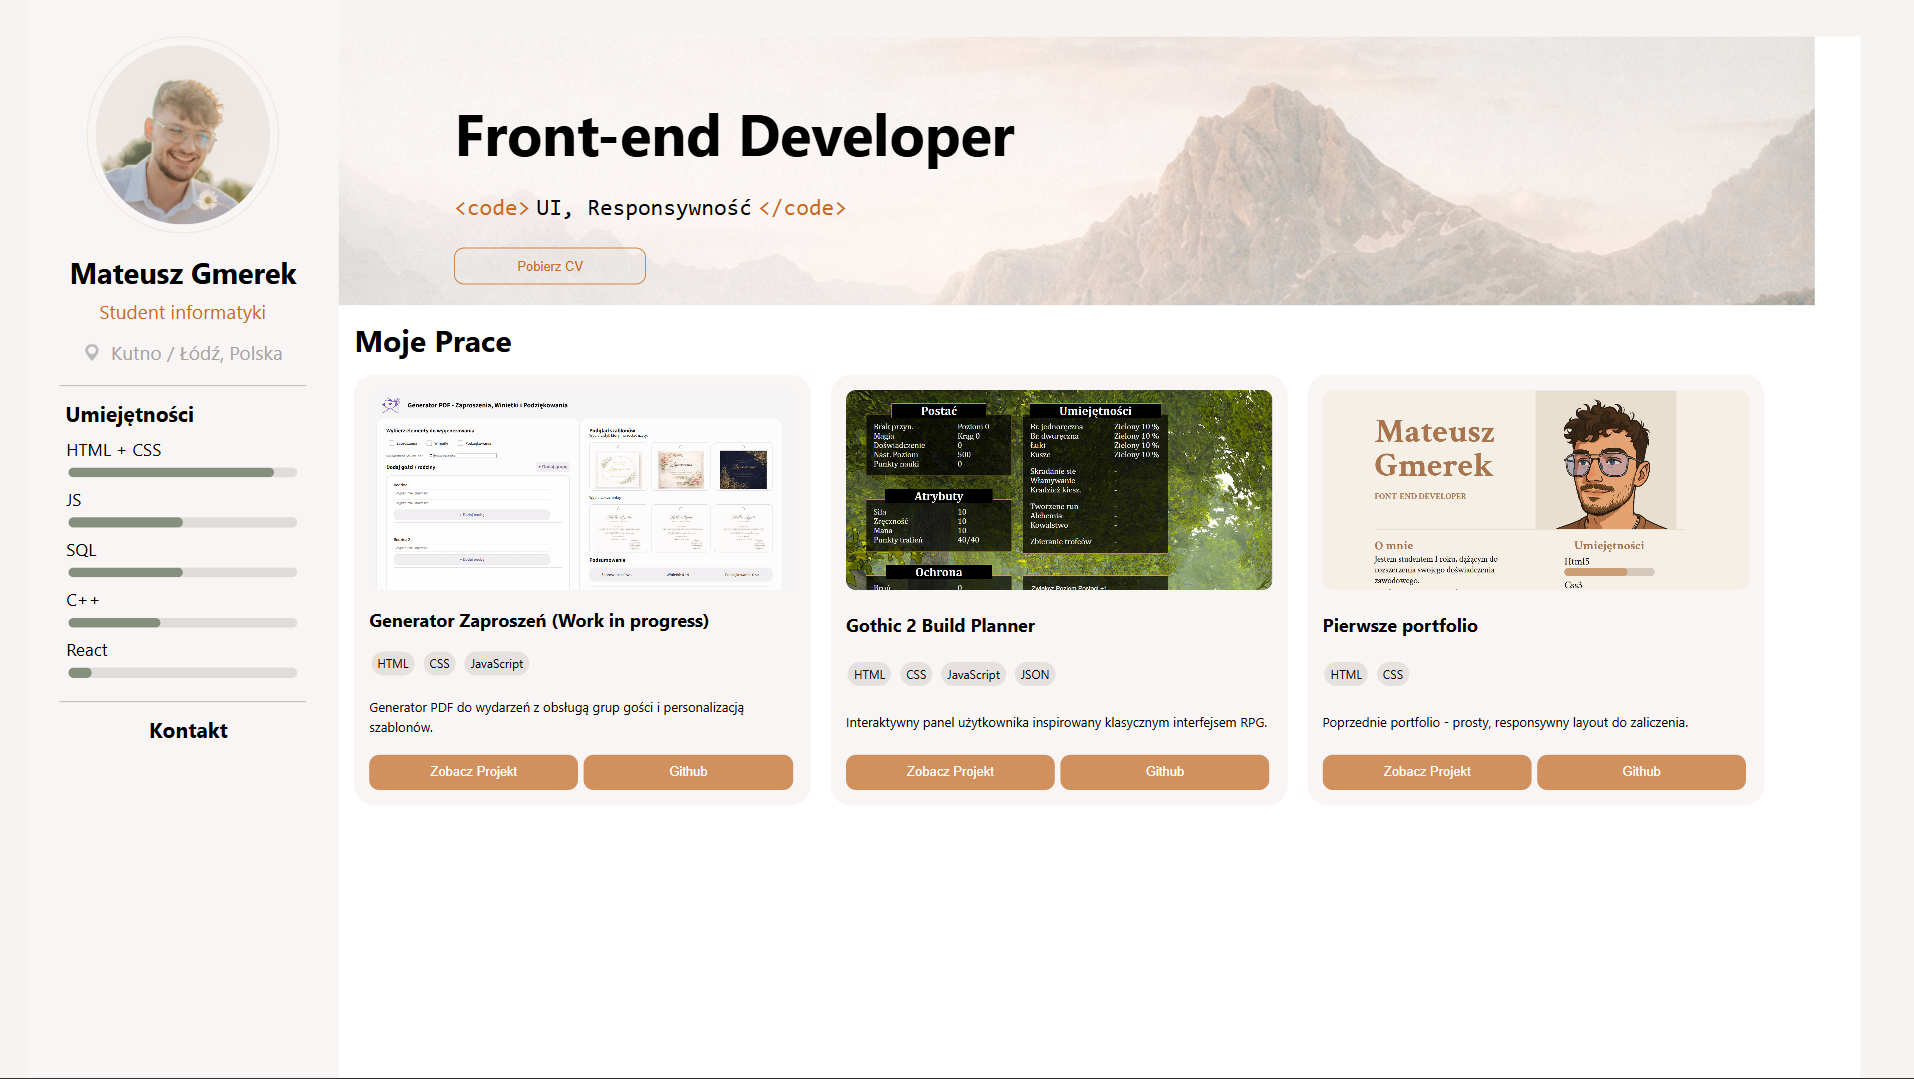
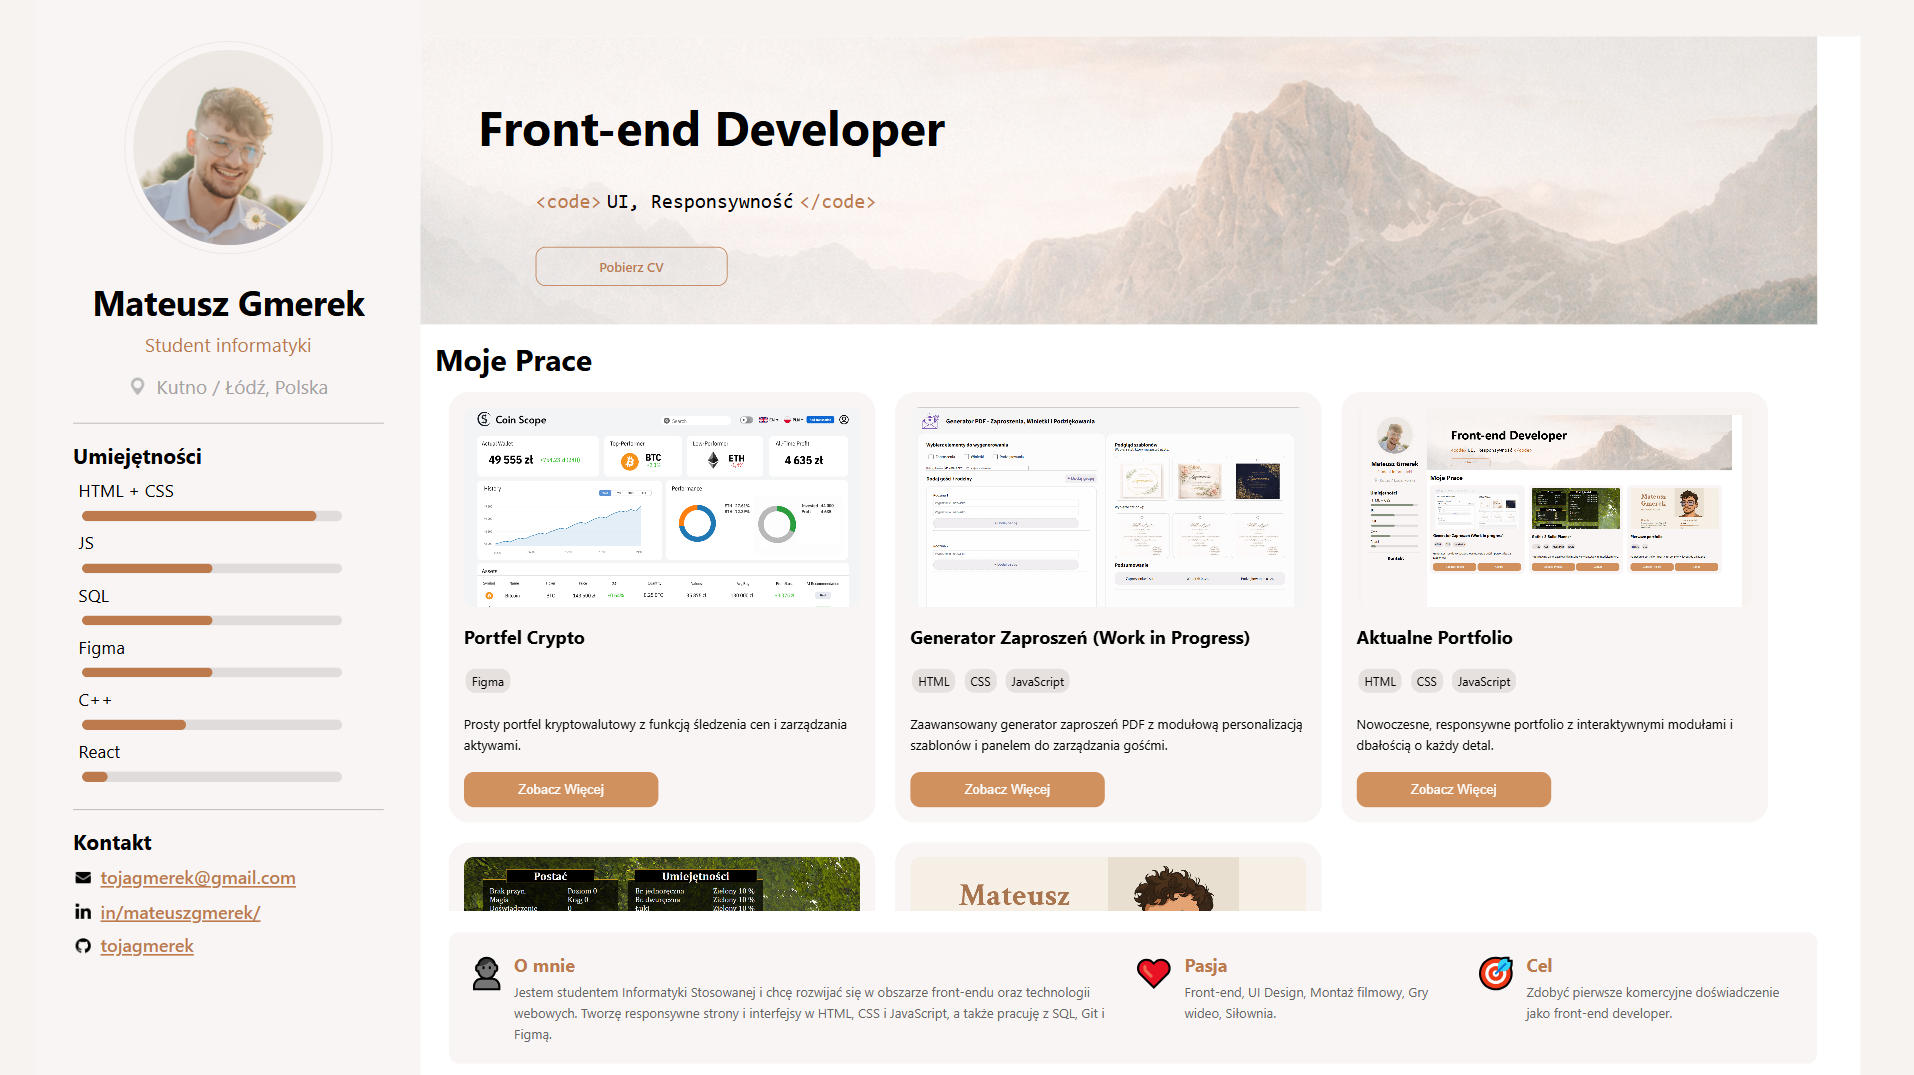
add laptop responsiveness and initial tablet/mobile layout

diff --git a/style.css b/style.css
@@ -16,16 +16,21 @@ body {
     background-color: var(--color-bg-main);
     font-family:system-ui, -apple-system, BlinkMacSystemFont, 'Segoe UI', Roboto, Oxygen, Ubuntu, Cantarell, 'Open Sans', 'Helvetica Neue', sans-serif;
     font-size: 2rem;
+    
+}
+
+.container {
     display: flex;
-    height: 100vh;
-    overflow: hidden;
     width: 100%;
+    max-width: 1920px;
+    min-height: 100vh;
+    margin-inline: auto;
 }
 
 /* Left Side Bar */
 
 .leftSideBar {
-    width: clamp(15rem, 20vw, 40rem);
+    width: clamp(15rem, 17vw, 35rem);
     height: auto;
     background-color: var(--color-bg-card);
     display: flex;
@@ -33,6 +38,11 @@ body {
     align-items: center;
     padding: clamp(0.5rem, 1vw, 5rem);
     margin-left: 2%;
+}
+
+.leftSideBar h1 {
+    font-size: clamp(1.5rem, 1.35vw, 2.5rem);
+    color: black;
 }
 
 .profileHeader {
@@ -62,7 +72,7 @@ hr {
     display: flex;
     flex-direction: column;
     align-items: center;
-    font-size: clamp(1rem, 1vw, 5rem);
+    font-size: clamp(1rem, 1vw, 2rem);
     width: 75%;
     color:  var(--color-accent);
 }
@@ -91,7 +101,7 @@ hr {
 }
 
 h4 {
-    font-size: clamp(1rem, 1.1vw, 3rem);
+    font-size: clamp(1rem, 1vw, 2rem);
     margin-left: 5%;
 }
 
@@ -106,7 +116,7 @@ h4 {
 .skill__top {
     display: grid;
     grid-template-columns: 1fr 1fr;
-    margin: 3% 4%;
+    margin: 3% 7%;
     font-size: clamp(1rem, 0.9vw ,2rem);
 }
 
@@ -116,7 +126,7 @@ h4 {
     border-radius: 1rem;
     overflow: hidden;
     width: 80%;
-    margin-left: 5%;
+    margin-left: 9%;
 }
 
 .skill__bar span {
@@ -132,7 +142,7 @@ h4 {
 }
 
 .contact-item {
-    margin: 1rem 2rem;
+    margin: 2% 9%;
     display: flex;
     align-items: center;
 }
@@ -155,7 +165,7 @@ h4 {
     transition: color 0.3s ease, text-decoration 0.3s ease;
     cursor: pointer;
     font-weight: 600;
-    font-size: 1.8rem;
+    font-size: clamp(1rem, 0.8vw, 1.8rem);
 }
 
 .contact-item span a:hover {
@@ -163,13 +173,33 @@ h4 {
     /*text-decoration: underline wavy;*/
 }
 
-/* Global Links */
 a {
     color: var(--color-accent);
     text-decoration: underline;
     cursor: pointer;
     transition: color 0.3s ease, text-decoration 0.3s ease;
     font-weight: 600;
+}
+
+.topBar {
+    display: flex;
+    width: 100%;
+    background-color: var(--color-bg-card);
+    padding: 1rem;
+}
+
+.topBar img{
+    width: 30%;
+}
+
+.topBar .personalInfo,
+.topBar .personalInfo div {
+    align-items: center;
+    justify-content: center;
+}
+
+.topBar .personalInfo img {
+    width: 5%;
 }
 
 a:hover {
@@ -179,7 +209,7 @@ a:hover {
 /* Main Page */
 
 .mainPage {
-    width: 75%;
+    width: 80%;
     display: flex;
     flex-direction: column;
     background-color: white;
@@ -190,15 +220,15 @@ a:hover {
 .mainPage > h1 {
     position: absolute;
     z-index: 1;
-    font-size: clamp(2rem, 2.5vw, 7rem);
-    margin: 3% 0 3% 6%;
+    font-size: clamp(2rem, 2.5vw, 5rem);
+    margin: clamp(2rem, 3%, 6rem) 0 clamp(2rem, 3%, 6rem) clamp(2rem, 3%, 11.5rem);
 }
 
 .mainPage__text {
     position: absolute;
     z-index: 1;
-    font-size: clamp(1rem, 1.1vw, 5rem);
-    margin: 8% 0 0 6%;
+    font-size: clamp(1rem, 1.1vw, 2rem);
+    margin: clamp(2rem, 8%, 15rem) 0 0 clamp(2rem, 4%, 11.5rem);
 }
 
 .mainPage__text span:first-child,
@@ -207,7 +237,7 @@ a:hover {
 }
 
 .backgroundImg {
-    height: clamp(10rem, 15vw, 30rem);
+    height: clamp(15rem, 17vw, 30rem);
     margin: 0 3% 0 0;
     overflow: hidden;
     position: relative;
@@ -225,14 +255,14 @@ a:hover {
     background-color: transparent;
     color: var(--color-accent);
     border: 1px solid var(--color-accent);
-    padding: 1rem;
+    padding: clamp(0.5rem, 2%, 1rem);
     border-radius: 1rem;
     font-size: clamp(0.7rem, 1.5vw, 1.3rem);
     cursor: pointer;
     position: absolute;
     z-index: 2;
-    width: 10%;
-    margin: 11% 0 0 6%;
+    width: clamp(0.7rem, 10%, 20rem);
+    margin: clamp(0.7rem, 11%, 21rem) 0 0 clamp(0.7rem, 6%, 11.5rem);
     text-align: center;
     text-decoration: none;
 }
@@ -252,14 +282,14 @@ a:hover {
     flex-direction: column;
 }
 .rest h2 {
-    font-size: clamp(1rem, 2.2vw, 3rem);
+    font-size: clamp(1rem, 1.5vw, 3rem);
     position: relative;
     margin: 1% 0 1% 1%;
 }
 
 .myWork {
-    display: flex;
-    flex-wrap: wrap;
+    display: grid;
+    grid-template-columns: repeat(3, 1fr);
     gap: 2rem;
     flex: 1;
     overflow-y: auto;
@@ -277,8 +307,7 @@ a:hover {
     gap: 1rem;
     cursor: pointer;
     transition: transform 0.3s ease, box-shadow 0.3s ease;
-    min-height: 430px;
-    flex: 0 0 calc(33.333% - 2rem);
+    min-height: clamp(15rem, 15vw, 35rem);
     justify-content: space-between;
 }
 
@@ -289,15 +318,15 @@ a:hover {
 
 .project-card img {
     width: 100%;
-    height: 200px;
-    object-fit: cover;
+    height: auto;
+    object-fit: contain;
     object-position: top;
     border-radius: 1rem;
 }
 
 .project-card h3 {
     margin: 0;
-    font-size: clamp(1.2rem, 2vw, 1.8rem);
+    font-size: clamp(1.2rem, 1.1vw, 2rem);
 }
 
 .project-card p {
@@ -498,59 +527,55 @@ a:hover {
     color: black;
 }
 
-@media (min-width:2200px) {
-    body {
-        max-width: 1920px;
-        margin: auto;
+@media (min-width:1921px) {
+    .topBar {
+        display: none;
     }
+}
 
-    .personalInfo span,
-    .skill__top span {
-        font-size: clamp(2rem, 0.8vw, 5rem);
-    }
-
-    .backgroundImg {
-        height: clamp(2rem, 12vw, 50rem);
-    }
-    .profileHeader h2{
-        font-size: clamp(2rem, 1.3vw, 5rem);
+@media (max-width:1920px) {
+    .topBar {
+        display: none;
     }
 }
 
 @media (max-width:1400px) {
-    .project-card {
-        flex: 0 0 calc(50% - 2rem);
-    }
-    .leftSideBar {
-        width: clamp(15rem, 30vw, 40rem);
-    }
-    .rest {
-        background-color: white;
-    }
-}
-
-@media (max-width:850px) {
-    .project-card {
-        flex: 0 0 calc(100% - 2rem);
-        padding: 1rem;
-    }
-    .leftSideBar {
-        width: clamp(15rem, 50vw, 40rem);
-    }
-}
-
-@media (max-width:480px) {
     .myWork {
-        gap: 1rem;
+        grid-template-columns: repeat(2, 1fr);
     }
-    .project-card {
-        flex: 0 0 calc(100% - 1rem);
-        padding: 0.8rem;
+    .mainPage {
+        margin: 0
     }
-    .project-card h3 {
-        font-size: 1.2rem;
+    .topBar {
+        display: none;
     }
-    .project-card p {
-        font-size: 1rem;
+}
+
+@media (max-width: 1100px) {
+    .leftSideBar {
+        display: none;
     }
+    .container {
+        flex-direction: column;
+    }
+    .topBar {
+        display: flex;
+    }
+}
+
+@media (max-width: 850px) {
+    .myWork {
+        grid-template-columns: repeat(1, 1fr);
+    }
+    .about-section {
+        grid-template-columns: 1fr;
+    }
+}
+
+@media (max-width: 600px) {
+
+}
+
+@media (max-width: 420px) {
+
 }

diff --git a/index.html b/index.html
@@ -7,12 +7,31 @@
     <link rel="stylesheet" href="style.css">
 </head>
 <body>
+    <div class="container">
+
+    <div class="topBar">
+        <div class="profileHeader">
+            <img src="assets/img/mainPhoto.jpg" alt="Zdjęcie profilowe Mateusza Gmarka" aria-label="Zdjęcie profilowe">
+            
+        </div>
+        <div class="personalInfo">
+            <h1 class="name">Mateusz Gmerek</h1>
+            <p>Student informatyki</p>
+            <div>
+                <img src="assets/img/pin.svg" alt="pineska" aria-label="Ikona lokalizacji">
+                <span>Kutno / Łódź, Polska</span>
+            </div>
+        </div>
+    </div>
+
+
     <div class="leftSideBar">
         <div class="profileHeader">
             <img src="assets/img/mainPhoto.jpg" alt="Zdjęcie profilowe Mateusza Gmarka" aria-label="Zdjęcie profilowe">
-            <h2>Mateusz Gmerek</h2>
+            
         </div>
         <div class="personalInfo">
+            <h1 class="name">Mateusz Gmerek</h1>
             <p>Student informatyki</p>
             <div>
                 <img src="assets/img/pin.svg" alt="pineska" aria-label="Ikona lokalizacji">
@@ -133,8 +152,8 @@
             <div class="about-item">
                 <div class="about-icon">❤</div>
                 <div class="about-content">
-                    <h3>Paja</h3>
-                    <p>Tworzenie UI/UX. Ciągle mniej ale jednak coś tam wiem.</p>
+                    <h3>Pasja</h3>
+                    <p>Front-end, UI Design, Montaż filmowy, Gry wideo, Siłownia.</p>
                 </div>
             </div>
             <div class="about-item">
@@ -161,6 +180,7 @@
                     <a id="projectGitUrl" href="#" target="_blank" class="project-link">Github</a>
                 </div>
             </div>
+    </div>
     </div>
     
     <script src="script.js"></script>
